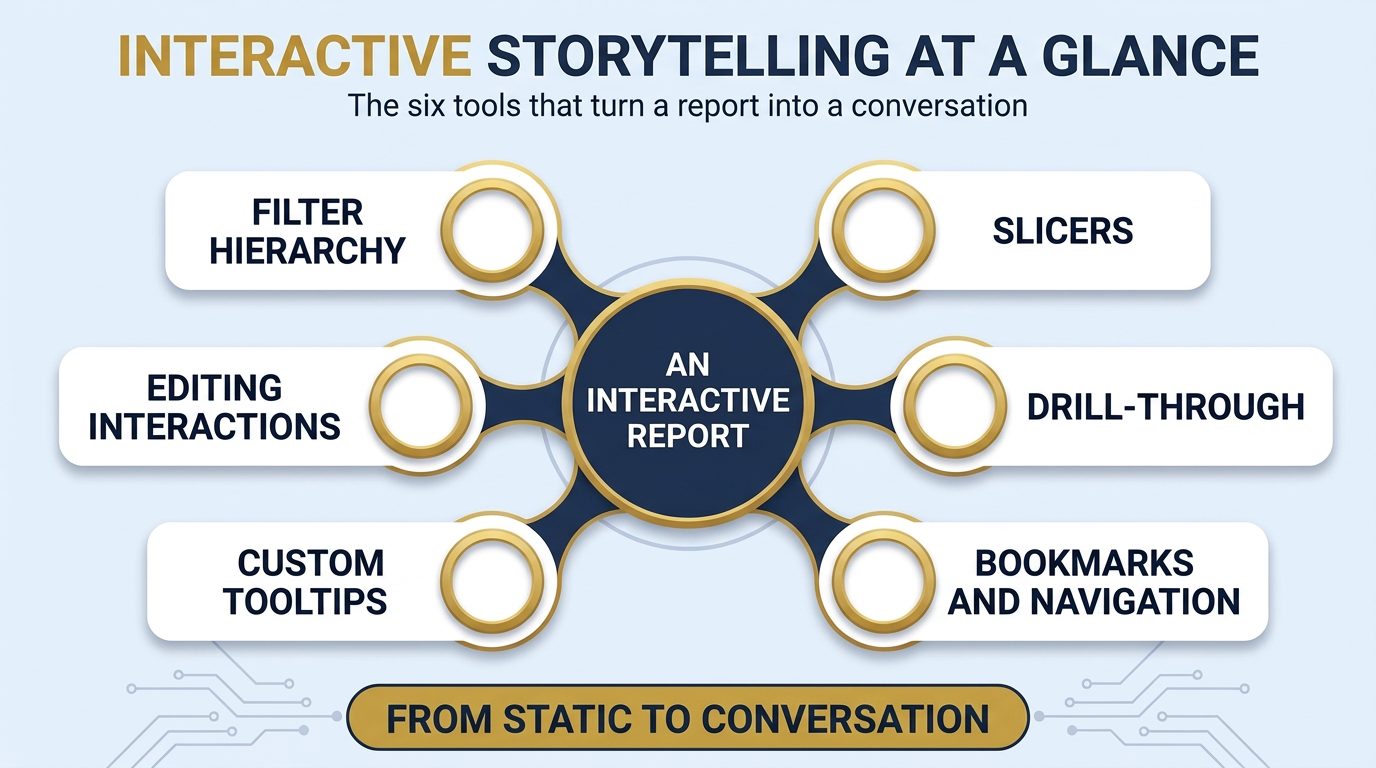
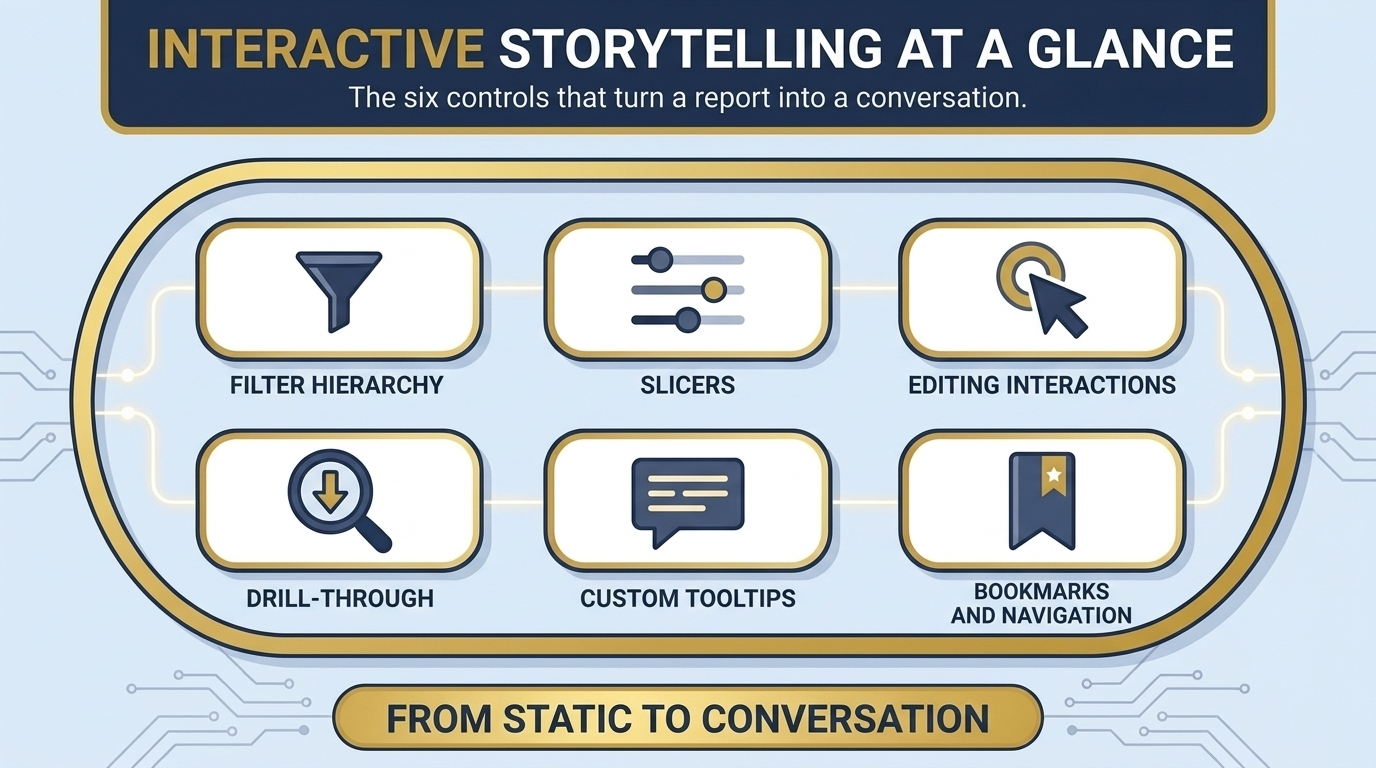
Regenerate Chapter 4 opener as a control-panel layout
Figure 4.1 was a hub-and-spoke, the same archetype as the Chapter 3
opener. Regenerate it as a control-panel layout — one console holding
six labelled control modules — which fits the chapter's theme (the
interactive controls an audience touches) and no longer repeats an
adjacent chapter's opener composition.

Locked navy/gold poster style unchanged; HTML-comment prompt block,
alt text, and caption updated to match.

diff --git a/chapters/ch04-interactive-storytelling.md b/chapters/ch04-interactive-storytelling.md
@@ -7,20 +7,20 @@ subtitle: "Filters, Navigation, and Drill-Through"
 NANO BANANA PRO — CHAPTER 4 OPENING INFOGRAPHIC
 File: images/ch04/fig-4-1-ch4-at-a-glance.png
 Title: Interactive Storytelling at a Glance
-Concept: A roadmap of the chapter — the six tools that turn a static report into a conversation.
-Archetype: Hub-and-spoke — central "AN INTERACTIVE REPORT" node, six labelled spokes.
+Concept: A roadmap of the chapter — the six controls that turn a static report into a conversation.
+Archetype: Control panel — one console with six embedded control modules in two rows of three (deliberately NOT hub-and-spoke, to differ from the Ch3 / Ch5 openers).
 Reference: images/_style-reference/fig-3-2-two-reactions.png
-Labels: spokes FILTER HIERARCHY, SLICERS, EDITING INTERACTIONS, DRILL-THROUGH, CUSTOM TOOLTIPS, BOOKMARKS AND NAVIGATION; banner "FROM STATIC TO CONVERSATION".
+Labels: modules FILTER HIERARCHY, SLICERS, EDITING INTERACTIONS, DRILL-THROUGH, CUSTOM TOOLTIPS, BOOKMARKS AND NAVIGATION; banner "FROM STATIC TO CONVERSATION".
 Palette: navy #1B2A47, gold #C9A23A, white / pale-blue background.
 -->
 
 :::{figure} ../images/ch04/fig-4-1-ch4-at-a-glance.png
 :label: fig-4-1
-:alt: A hub-and-spoke infographic titled "Interactive Storytelling at a Glance." A central node, "an interactive report," connects to six spokes: filter hierarchy, slicers, editing interactions, drill-through, custom tooltips, and bookmarks and navigation. A banner reads "from static to conversation."
+:alt: A control-panel infographic titled "Interactive Storytelling at a Glance." One console holds six labelled control modules: filter hierarchy, slicers, editing interactions, drill-through, custom tooltips, and bookmarks and navigation. A banner reads "from static to conversation."
 :width: 100%
 :align: center
 
-**Figure 4.1.** *Interactive Storytelling at a Glance.* The six tools that turn a static report into a conversation.
+**Figure 4.1.** *Interactive Storytelling at a Glance.* The six controls that turn a static report into a conversation.
 :::
 
 **Chapter 4 of 8** | **Part 2 of 4: Design and Interaction**
